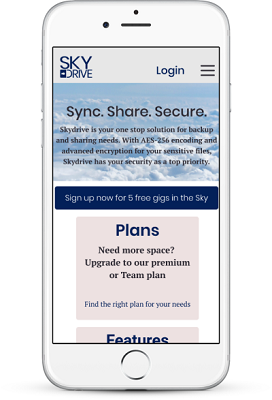
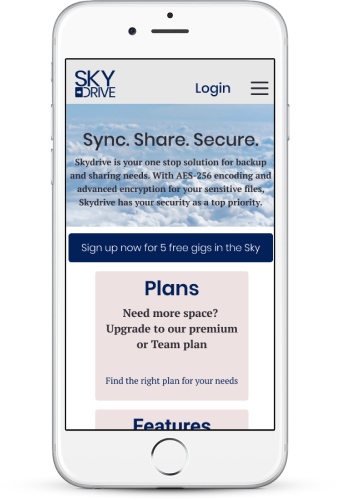
update responsive design

diff --git a/skydrive.html b/skydrive.html
@@ -98,8 +98,8 @@
                     What do they use it for? Do they pay for these apps? <br>
                     Why do they use these apps? What do they and don’t they like? </p>
                 </article>
-              <img src="/casestudies/skydrive/images/data.png" class="item1-7" alt="Do you have any data that syncs automatically">
-              <img src="/casestudies/skydrive/images/cloud.png" class="item7-13" alt="What do you use Cloud Storage for?">
+              <img src="casestudies/skydrive/images/data.png" class="item1-7" alt="Do you have any data that syncs automatically">
+              <img src="casestudies/skydrive/images/cloud.png" class="item7-13" alt="What do you use Cloud Storage for?">
               <article class="item2-12 text">
                 <h5>Interesting Discoveries:</h5>
                 <ul class="ud">
@@ -119,7 +119,7 @@
                 <p >User Personas were created from the information gathered in the research conducted</p>
               </article>
               <article class="item2-6 persona">
-                <img src="/casestudies/skydrive/images/lesliek.png" alt="Leslie K.">
+                <img src="casestudies/skydrive/images/lesliek.png" alt="Leslie K.">
                 <h5>Leslie K.</h5>
                 <h6>The Techy Teacher<br>
                   35 | Female | Chester, PA</h6>
@@ -140,7 +140,7 @@
                 </ul>
               </article>
               <article class="item2-6 persona">
-                <img src="/casestudies/skydrive/images/jimh.png" alt="Jim H.">
+                <img src="casestudies/skydrive/images/jimh.png" alt="Jim H.">
                 <h5> Jim H.</h5>
                 <h6> The Media Maven <br>
                   26 | Male | Arlington, VA</h6>
@@ -323,19 +323,19 @@
               <p class="item3-11 text xxl">The mobile tests laid out three additional scenarios: sign up with an email address, create a new folder, and move a file into a folder. Each test went as well as could be hoped for.
                 Each user was able to complete all three scenarios in the fewest amount of clicks necessary. Each of the users said they enjoyed their experience with the mobile prototype as well.
                 There ease of use and comfortability with the prototype showed the hierarchy set by type and color made for a stress-free and simple experience.</p>
-                <img src="casestudies/skydrive/images/mobile1a.png" class="item1-4" alt="Mobile Homepage">
-                <img src="casestudies/skydrive/images/mobile1b.png" class="item4-7" alt="Mobile Sign Up">
-                <img src="casestudies/skydrive/images/mobile1c.png" class="item7-10" alt="Mobile Sign up">
-                <img src="casestudies/skydrive/images/mobile1d.png" class="item10-13 item-mobile-s" alt="Mobile Sign Up">
+                <img src="casestudies/skydrive/images/mobile1a.png" class="item1-4b" alt="Mobile Homepage">
+                <img src="casestudies/skydrive/images/mobile1b.png" class="item4-7b" alt="Mobile Sign Up">
+                <img src="casestudies/skydrive/images/mobile1c.png" class="item7-10b" alt="Mobile Sign up">
+                <img src="casestudies/skydrive/images/mobile1d.png" class="item10-13b item-mobile-s" alt="Mobile Sign Up">
               <p class="item3-11 xxl">Scenario one asked the user to create an account using their email address.</p>
-                <img src="casestudies/skydrive/images/mobile2a.png" class="item1-5" alt="Mobile Accounts">
-                <img src="casestudies/skydrive/images/mobile2b.png" class="item5-9" alt="Mobile Create Folder">
-                <img src="casestudies/skydrive/images/mobile2c.png" class="item9-13 item-mobile-s" alt="Mobile New Folder">
+                <img src="casestudies/skydrive/images/mobile2a.png" class="item1-5b" alt="Mobile Accounts">
+                <img src="casestudies/skydrive/images/mobile2b.png" class="item5-9b" alt="Mobile Create Folder">
+                <img src="casestudies/skydrive/images/mobile2c.png" class="item9-13b item-mobile-s" alt="Mobile New Folder">
               <p class="item3-11 xxl">Scenario two tasked the user to create a new folder.</p>
-                <img src="casestudies/skydrive/images/mobile3a.png" class="item1-4" alt="Mobile Homepage">
-                <img src="casestudies/skydrive/images/mobile3b.png" class="item4-7" alt="Mobile move">
-                <img src="casestudies/skydrive/images/mobile3c.png" class="item7-10" alt="Mobile save to">
-                <img src="casestudies/skydrive/images/mobile3d.png" class="item10-13 item-mobile-s
+                <img src="casestudies/skydrive/images/mobile3a.png" class="item1-4b" alt="Mobile Homepage">
+                <img src="casestudies/skydrive/images/mobile3b.png" class="item4-7b" alt="Mobile move">
+                <img src="casestudies/skydrive/images/mobile3c.png" class="item7-10b" alt="Mobile save to">
+                <img src="casestudies/skydrive/images/mobile3d.png" class="item10-13b item-mobile-s
 
                 " alt="Mobile save to">
               <p class="item3-11">Scenario three required the user to move an item into a folder. </p>
@@ -350,24 +350,24 @@
                   The devil is always in the details, and will make our project what stands out from any competition that enters the field.</p>
               </article>
               <a href="https://drive.google.com/drive/folders/1FH880l4edJElSJ2b4Bu5xpzQ9mxS2Mvi?usp=sharing" target="_blank" class="cta cta-l itemfull">View Full-Sized Images</a>
-              <img src="casestudies/skydrive/images/homepagehifi.png" class="item1-5" alt="Homepage">
-              <img src="casestudies/skydrive/images/change1b.png" class="item5-9" alt="Homepage">
-              <img src="casestudies/skydrive/images/change1c.png" class="item9-13 item-mobile-s" alt="Homepage">
+              <img src="casestudies/skydrive/images/homepagehifi.png" class="item1-5b" alt="Homepage">
+              <img src="casestudies/skydrive/images/change1b.png" class="item5-9b" alt="Homepage">
+              <img src="casestudies/skydrive/images/change1c.png" class="item9-13b item-mobile-s" alt="Homepage">
               <p class="item3-11 text xxl">The Desktop Homepage was modified to create more sense of hierarchy and make the Call-to-Action button more apparent.
                 Typography and spacing were also improved to give a better feen and better hierachy.</p>
-              <img src="casestudies/skydrive/images/userhomehifi.png" class="item1-5" alt="User Home">
-              <img src="casestudies/skydrive/images/change2b.png" class="item5-9" alt="User Home">
-              <img src="casestudies/skydrive/images/change2c.png" class="item9-13 item-mobile-s" alt="User Home">
+              <img src="casestudies/skydrive/images/userhomehifi.png" class="item1-5b" alt="User Home">
+              <img src="casestudies/skydrive/images/change2b.png" class="item5-9b" alt="User Home">
+              <img src="casestudies/skydrive/images/change2c.png" class="item9-13b item-mobile-s" alt="User Home">
               <p class="item3-11 text xxl">The User Home was modified based on the user testing, to give more emphasis on the Avatar. This highlighted that the Avatar was a clickable.
                   The New button was adjusted to show it’s importance, making it a focal point. The navigation bar was also modified to feel more relevant.</p>
-              <img src="casestudies/skydrive/images/change3a.png" class="item1-5" alt="Mobile Homepage">
-              <img src="casestudies/skydrive/images/change3b.png" class="item5-9" alt="Mobile Homepage">
-              <img src="casestudies/skydrive/images/change3c.png" class="item9-13 item-mobile-s" alt="Mobile Homepage">
+              <img src="casestudies/skydrive/images/change3a.png" class="item1-5b" alt="Mobile Homepage">
+              <img src="casestudies/skydrive/images/change3b.png" class="item5-9b" alt="Mobile Homepage">
+              <img src="casestudies/skydrive/images/change3c.png" class="item9-13b item-mobile-s" alt="Mobile Homepage">
               <p class="item3-11 text xxl">The mobile Homepage was modified similarly to its desktop equivalent.
                   The Call-to-Action button became a larger focal point, showing the user what the screen main intention is.</p>
-              <img src="casestudies/skydrive/images/change4a.png" class="item1-5" alt="Mobile Tabs">
-              <img src="casestudies/skydrive/images/change4b.png" class="item5-9" alt="Mobile Tabs">
-              <img src="casestudies/skydrive/images/change4c.png" class="item9-13 item-mobile-s" alt="Mobile Tabs">
+              <img src="casestudies/skydrive/images/change4a.png" class="item1-5b" alt="Mobile Tabs">
+              <img src="casestudies/skydrive/images/change4b.png" class="item5-9b" alt="Mobile Tabs">
+              <img src="casestudies/skydrive/images/change4c.png" class="item9-13b item-mobile-s" alt="Mobile Tabs">
               <p class="item3-11 text">The mobile User Home was adjusted to make the bottom navigation bar more informative.
                   Labeling each of the buttons, and readjusting the icon size make the bar more useful and less intrusive.</p>
             </section>

diff --git a/styles/main.css b/styles/main.css
@@ -83,6 +83,7 @@ font-family: 'Comfortaa',cursive;
 font-size: 2.4rem;
 font-weight: 300;
 line-height: 4rem;
+max-width: 97.6rem;
 }
 
 figcaption {
@@ -167,8 +168,13 @@ nav {
 
 nav article {
   margin: 0 auto;
+  max-width: 155rem;
   width: 82%;
 }
+
+/* .desktop {
+  align-items: center;
+} */
 
 /* Logo */
 .logo {
@@ -178,10 +184,12 @@ nav article {
 
 /* Menu for Desktop */
  .menu{
+ align-items: center;
  display: inline-block;
  float: right;
- padding: 1.6rem 0 .8rem;
+ padding: .6rem 0;
  text-align: center;
+
 }
 .menu ul {
  list-style: none;
@@ -216,6 +224,7 @@ background: url(../CaseStudies/SkyDrive/images/hero.png) center / cover;
 
 header article {
  margin: 0 auto;
+ max-width: 155rem;
  width: 82%;
 }
 
@@ -263,9 +272,10 @@ padding: 9.6rem 0;
 
 /* main section will be used for background color. Second for container */
 section section {
-width: 82%;
 margin: 0 auto;
+max-width: 155rem;
 padding: 0 0;
+width: 82%;
 }
 
 /* section classes */
@@ -340,12 +350,12 @@ margin: 0 auto;
 grid-area: left;
 }
 
-.item1-4{
+.item1-4, .item1-4b{
 grid-column: 1/4;
 margin: 0 auto;
 }
 
-.item1-5{
+.item1-5, .item1-5b{
 grid-column: 1/5;
 margin:0 auto;
 }
@@ -373,17 +383,17 @@ grid-column: 3/11;
 margin: 0 auto;
 }
 
-.item4-7{
+.item4-7, .item4-7b{
 grid-column: 4/7;
 margin: 0 auto;
 }
 
-.item5-9 {
+.item5-9, .item5-9b {
 grid-column: 5/9;
 margin: 0 auto;
 }
 
-.item7-10{
+.item7-10, .item7-10b{
 grid-column: 7/10;
 margin: 0 auto;
 }
@@ -398,12 +408,12 @@ grid-column: 7/13;
 margin: 0 auto;
 }
 
-.item9-13{
+.item9-13, .item9-13b{
 grid-column: 9/13;
 margin: 0 auto;
 }
 
-.item10-13{
+.item10-13, .item10-13b{
 grid-column: 10/13;
 margin 0 auto;
 }
@@ -541,8 +551,9 @@ padding-bottom: 0rem;
 /* Footer */
 
 footer {
-width: 82%;
 margin: 0 auto;
+max-width: 155rem;
+width: 82%;
 }
 
 .social {
@@ -573,24 +584,76 @@ padding: 1.6rem 0 0;
 }
 }
 
+@media screen and (min-width:600px) and (max-width: 800px) {
+
+  h1 {
+  font-size: 6.8rem;
+  line-height: 6.8rem;
+  }
+
+  h2 {
+  font-size: 5rem;
+  line-height: 5.2rem;
+  }
+
+  h3 {
+  font-size: 3.6rem;
+  line-height: 4.8rem;
+  }
+
+  h4 {
+  font-size: 2.8rem;
+  font-weight: 600;
+  line-height: 3.6rem;
+  }
+
+  h5 {
+  font-size: 2.2rem;
+  line-height: 3.2rem;
+  }
+
+  h6 {
+  font-size: 1.6rem;
+  line-height: 3.2rem;
+  }
+
+
+
+p, li {
+  font-size: 1.6rem;
+}
+
+.item1-4b, .item1-5b, .item7-10b {
+  grid-column: 1/7;
+  padding-bottom: 4.8rem;
+}
+
+.item4-7b, .item5-9b, .item10-13b {
+  grid-column: 7/13;
+}
+
+.item9-13b {
+  grid-column: 1/13;
+}
+
+}
+
+
+
 @media screen and (max-width:600px) {
 
   h1 {
-  color: #04C1DB;
   font-size: 4.8rem;
   line-height: 4.8rem;
   }
 
   h2 {
-  color: #072142;
   font-size: 4.0rem;
   line-height: 4.0rem;
-  text-align: center;
   }
 
   h3 {
-  color: #072142;
-  font-size: 3.2rem;
+  font-size: 3.0rem;
   font-weight: 600;
   line-height: 4.0rem;
   }
@@ -609,6 +672,10 @@ padding: 1.6rem 0 0;
   h6 {
   font-size: 1.6rem;
   line-height: 2.4rem;
+  }
+
+  p {
+    font-size: 1.7rem;
   }
 
   .hdetail {
@@ -632,6 +699,13 @@ padding: 1.6rem 0 0;
   font-size: 1.8rem;
   line-height: 2.8rem;
   }
+
+  a {
+  font-size: 2rem;
+  line-height: 2.4rem;
+  }
+
+
 
   /* CTA buttons */
 
@@ -760,18 +834,6 @@ section {
 padding: 4.8rem 0;
 }
 
-.persona img {
-  max-width: 10rem;
-  padding-bottom: 0;
-  margin-bottom: .8rem;
-}
-
-.fig img, figure img{
-display: block;
-margin: 0 auto;
-padding-bottom: 0;
-}
-
 /***Grids***/
 /* Index grid for work display */
 .work-grid, .about-grid, .highlight, .cs-grid, .cs-img {
@@ -838,6 +900,18 @@ padding-bottom: 0;
 
 .cs-img .item-mobile-s{
   padding-bottom: 1.6rem;
+}
+
+.persona img {
+  max-width: 10rem;
+  padding-bottom: 0;
+  margin-bottom: .8rem;
+}
+
+.fig img, figure img{
+display: block;
+margin: 0 auto;
+padding-bottom: 0;
 }
 
 .in-link {

diff --git a/about.html b/about.html
@@ -25,7 +25,7 @@
         <a href="/"><img src="images/logo.png" class="logo" alt="Brian E. Mallen Logo"></a>
         <ul id="myLinks">
           <li><a href="about.html">About</a></li>
-          <li><a href="#Work">Work</a></li>
+          <li><a href="index.html#Work">Work</a></li>
           <li><a href="pdf/resume.pdf">Resume</a></li>
           <li><a href="mailto:bmallen89@gmail.com?Subject=You&apos;re%20awesome,%20we&apos;re%20awesome,%20let&apos;s%20work%20together" target="_blank">Contact</a></li>
         </ul>
